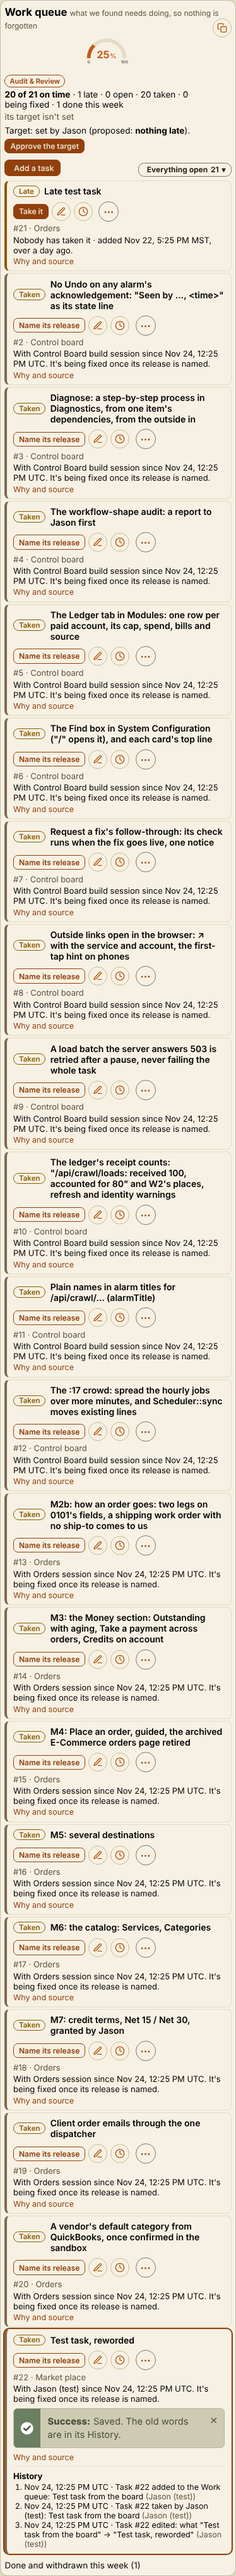
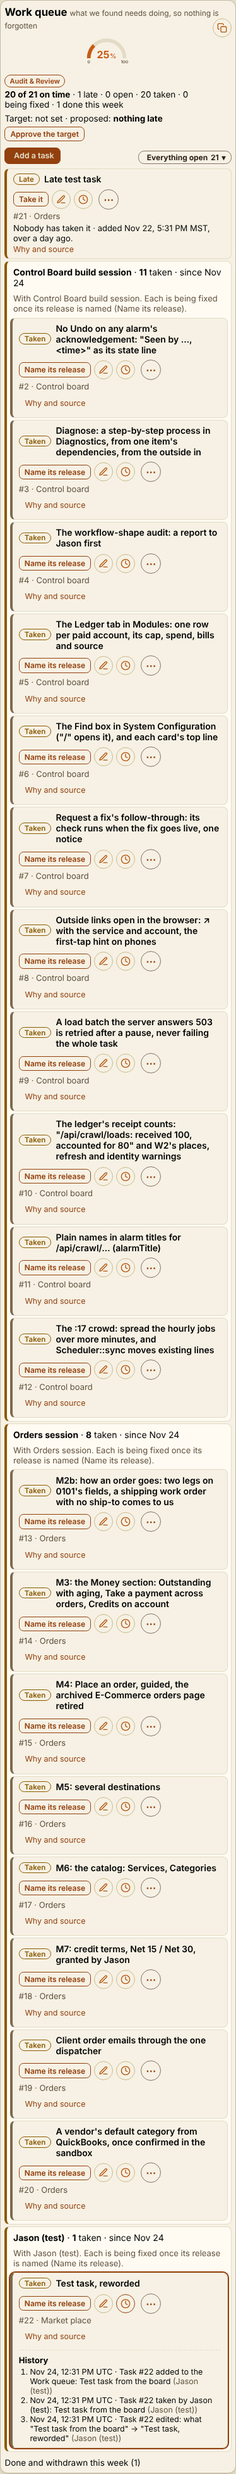
work-queue: the Design reviewer's changes: one filled button, taken rows grouped by who has them, paging kept after an add, the target said once
Claude-Session: https://claude.ai/code/session_01CXLi5gqPa5AQKoZXC7gZxx

Changed region(s): [[0.0, 0.0, 1.0, 1.0], [0.9118, 0.0, 0.9412, 0.0312]]

diff --git a/handoffs/work-queue/build/website/js/admin-control.js b/handoffs/work-queue/build/website/js/admin-control.js
@@ -513,10 +513,12 @@
   // read again from the server, so its gauge, counts and rows say the state now (CLAUDE.md "words follow the state").
   function wqTz() { try { return Intl.DateTimeFormat().resolvedOptions().timeZone || ''; } catch (x) { return ''; } }
   function wqFilter(sec, f) {
-    sec._f = f || 'all'; var n = 0, ul = sec.querySelector('.wq-list:not(.wq-closed .wq-list)'), all = sec.querySelector('.wq-all');
+    sec._f = f || 'all'; var n = 0, ul = sec.querySelector('.wq-main'), all = sec.querySelector('.wq-all');
     if (ul && (sec._f !== 'all' || sec._all)) ul.classList.add('wq-showall'); else if (ul) ul.classList.remove('wq-showall');
     if (all) all.hidden = !!(ul && ul.classList.contains('wq-showall'));
-    sec.querySelectorAll('.wq-list:not(.wq-closed .wq-list) > .wq-it').forEach(function (li) { var on = sec._f === 'all' || li.getAttribute('data-wq-st') === sec._f; li.hidden = !on; if (on) n++; });
+    sec.querySelectorAll('.wq-main .wq-it').forEach(function (li) { var on = sec._f === 'all' || li.getAttribute('data-wq-st') === sec._f; li.hidden = !on; if (on) n++; });
+    sec.querySelectorAll('.wq-main .wq-grp').forEach(function (g) {   // a group row shows while one of its rows does; a filter on Taken opens them
+      var any = g.querySelector('.wq-it:not([hidden])'); g.hidden = !any; if (sec._f === 'taken') g.querySelector('details').open = true; });
     sec.querySelectorAll('[data-wq-f]').forEach(function (b) { b.setAttribute('aria-checked', String(b.getAttribute('data-wq-f') === sec._f)); });
     var lb = sec.querySelector('[data-wq-f="' + sec._f + '"]'), fl = sec.querySelector('[data-wq-fl]'), fn = sec.querySelector('[data-wq-fn]'), none = sec.querySelector('.wq-none');
     if (fl && lb) fl.textContent = lb.firstChild.textContent.trim(); if (fn) fn.textContent = String(n);
@@ -536,11 +538,16 @@
       return n;
     });
   }
+  function wqFirst(sec, id) {   // a task just added: first in the list, marked, the list's paging kept
+    var li = id && sec.querySelector('.wq-main > #wq-' + id), ul = sec.querySelector('.wq-main'); if (!li || !ul) return;
+    li.removeAttribute('data-wq-more'); ul.insertBefore(li, ul.firstChild); li.classList.add('wq-new');
+    var more = ul.children[10]; if (more && !sec._all) more.setAttribute('data-wq-more', '');
+  }
   function wqSend(sec, btn, body, id) {
     body.tz = wqTz(); TvAsk.busy(btn, true);
     return post('/admin/api/config/control', body).then(function (j) {
       TvAsk.busy(btn, false);
-      return wqReload(sec, j.id || id).then(function (n) { var at = n && ((j.id || id) && n.querySelector('#wq-' + (j.id || id) + ' .wq-st')) || n; say(j.message || 'Done.', at); });
+      return wqReload(sec, j.id || id).then(function (n) { if (n && body.action === 'qadd') wqFirst(n, j.id); var at = n && ((j.id || id) && n.querySelector('#wq-' + (j.id || id) + ' .wq-st')) || n; say(j.message || 'Done.', at); });
     }, function (err) { TvAsk.busy(btn, false); say(err.message, btn, true); });
   }
   box.addEventListener('click', function (e) {

diff --git a/handoffs/work-queue/build/app/admin/control-console.php b/handoffs/work-queue/build/app/admin/control-console.php
@@ -1386,17 +1386,17 @@ function tv_cb_wq_places(PDO $pdo, array $tasks): array
     return $p;
 }
 
-function tv_cb_wq_row(array $t, array $places): string
+function tv_cb_wq_row(array $t, array $places, bool $grouped = false): string
 {
     $e = 'tv_w_e'; $id = (int) $t['id']; $st = (string) $t['state'];
     $place = $places[(string) $t['gauge']][1] ?? (string) $t['gauge'];
     $what = (string) ($t['what'] !== '' ? $t['what'] : $t['item']);
-    $when = fn ($d) => '<time datetime="' . $e(gmdate('c', (int) strtotime($d . ' UTC'))) . '" data-tv-time' . ($t['tz'] !== '' ? ' data-tz="' . $e($t['tz']) . '"' : '') . '>' . $e(gmdate('M j, H:i', (int) strtotime($d . ' UTC'))) . ' UTC</time>';
+    $when = fn ($d, $tz = '') => '<time datetime="' . $e(gmdate('c', (int) strtotime($d . ' UTC'))) . '" data-tv-time' . ($tz !== '' ? ' data-tz="' . $e($tz) . '"' : '') . '>' . $e(gmdate('M j, H:i', (int) strtotime($d . ' UTC'))) . ' UTC</time>';
     $pill = ['open' => ['Open', 'n'], 'taken' => ['Taken', 'a'], 'fixing' => ['Being fixed', 'r'], 'late' => ['Late', 'late'], 'done' => ['Done', 'g'], 'withdrawn' => ['Withdrawn', 'w']][$st];
     $owner = (string) $t['owner_now']; $rel = (string) $t['rel_now'];
     $line = [
-        'open' => 'Nobody has it yet · added ' . $when($t['at']) . '. Late if nobody takes it within a day.',
-        'late' => 'Nobody has taken it · added ' . $when($t['at']) . ', over a day ago.',
+        'open' => 'Nobody has it yet · added ' . $when($t['at'], (string) $t['tz']) . '. Late if nobody takes it within a day.',
+        'late' => 'Nobody has taken it · added ' . $when($t['at'], (string) $t['tz']) . ', over a day ago.',
         'taken' => 'With ' . $e($owner) . ($t['owner_at'] ? ' since ' . $when($t['owner_at']) : '') . '. It\'s being fixed once its release is named.',
         'fixing' => 'Being fixed in <b>' . $e($rel) . '</b>' . ($owner !== '' ? ' by ' . $e($owner) : '') . '. Done by itself when that release is live.',
         'done' => $e((string) ($t['done_how'] ?: 'Done: its check passed')) . ', ' . $when((string) $t['cleared_at']) . '.',
@@ -1406,7 +1406,7 @@ function tv_cb_wq_row(array $t, array $places): string
     $ic = fn ($act, $icon, $title, $extra = '') => '<button type="button" class="cbg-ic" data-wq="' . $act . '" title="' . $e($title) . '" aria-label="' . $e($title) . '"' . $extra . '>' . tv_icon($icon, 'cbg-svg') . '</button>';
     $acts = '';
     if (!$closed) {
-        $acts .= in_array($st, ['open', 'late'], true) ? '<button type="button" class="cbg-b cbg-sm" data-wq="take">Take it</button>'
+        $acts .= in_array($st, ['open', 'late'], true) ? '<button type="button" class="cbg-b cbg-sm cbg-o" data-wq="take">Take it</button>'
             : ($st === 'taken' ? '<button type="button" class="cbg-b cbg-sm cbg-o" data-wq="rel">Name its release</button>' : '');
         $acts .= $ic('edit', 'pen', 'Edit task #' . $id . ': ' . $what);
     }
@@ -1421,7 +1421,7 @@ function tv_cb_wq_row(array $t, array $places): string
     return '<li class="wq-it wq-' . $e($st) . '" id="wq-' . $id . '" data-wq-id="' . $id . '" data-wq-st="' . $e($st) . '" data-gauge="' . $e($t['gauge']) . '" data-what="' . $e($what) . '" data-why="' . $e((string) $t['why']) . '" data-source="' . $e($src) . '">'
         . '<div class="wq-h"><span class="wq-pill wq-p-' . $pill[1] . '">' . $pill[0] . '</span><span class="wq-nm">' . $e($what) . '</span><span class="wq-acts">' . $acts . '</span></div>'
         . '<p class="wq-meta">#' . $id . ' · ' . $e($place) . (!$t['task'] ? ' · a fix request from its gauge' : '') . '</p>'
-        . '<p class="wq-st">' . $line . '</p>'
+        . ($grouped ? '' : '<p class="wq-st">' . $line . '</p>')
         . '<details class="wq-ws"><summary>Why and source</summary>'
         . ((string) $t['why'] !== '' ? '<p class="wq-why"><b>Why:</b> ' . $e((string) $t['why']) . '</p>' : '')
         . ($src !== '' ? '<p class="wq-src"><b>Source:</b> ' . $e($src) . '</p>' : '<p class="wq-src"><b>Source:</b> not given (✎ to add it)</p>') . '</details>'
@@ -1443,8 +1443,8 @@ function tv_cb_workqueue(PDO $pdo): string
     $sum = $c['late'] . ' late · ' . $c['open'] . ' open · ' . $c['taken'] . ' taken · ' . $c['fixing'] . ' being fixed · ' . $c['done'] . ' done this week';
     $target = $q['target_approved']
         ? '<p class="wq-tg">Target: <b>' . $e((string) $q['target']) . '</b> (approved by ' . $e((string) $q['target_approved']['who']) . ').</p>'
-        : '<div class="cbg-acts wq-tg"><span>Target: set by Jason (proposed: <b>' . $e(ControlGauges::QUEUE['target_proposed']) . '</b>).</span>'
-          . '<button type="button" class="cbg-b cbg-sm" data-cbg="target" data-g="rt:' . $e(ControlGauges::QUEUE['id']) . '" data-value="' . $e(ControlGauges::QUEUE['target_proposed']) . '" data-title="Work queue">Approve the target</button></div>';
+        : '<div class="cbg-acts wq-tg"><span>Target: not set · proposed: <b>' . $e(ControlGauges::QUEUE['target_proposed']) . '</b></span>'
+          . '<button type="button" class="cbg-b cbg-sm cbg-o" data-cbg="target" data-g="rt:' . $e(ControlGauges::QUEUE['id']) . '" data-value="' . $e(ControlGauges::QUEUE['target_proposed']) . '" data-title="Work queue">Approve the target</button></div>';
     // the filter: one dropdown button (CLAUDE.md "Filters on a list or queue are one dropdown button like Shortcuts")
     $f = [['all', 'Everything open', count($active)], ['late', 'Late', $c['late']], ['open', 'Open', $c['open']], ['taken', 'Taken', $c['taken']], ['fixing', 'Being fixed', $c['fixing']]];
     $fmenu = implode('', array_map(fn ($x) => '<button type="button" role="menuitemradio" aria-checked="' . ($x[0] === 'all' ? 'true' : 'false') . '" data-wq-f="' . $x[0] . '">' . $e($x[1]) . ' <span>' . (int) $x[2] . '</span></button>', $f));
@@ -1460,17 +1460,30 @@ function tv_cb_workqueue(PDO $pdo): string
         . '<label>Source<input name="source" maxlength="255" spellcheck="false" placeholder="a decision, a hand-off, or whose words and when"></label>'
         . '<div class="cbg-acts"><button type="submit" class="cbg-b">Add the task</button><button type="button" class="cbg-b cbg-o" data-wq="cancel">Cancel</button></div></form>';
     // the first 10, then Show all (the gauge panel's paging, handoffs/gauge-panel.md); a filter shows all its rows
-    $active = array_values($active); $rows = '';
-    foreach ($active as $i => $t) { $r = tv_cb_wq_row($t, $places); $rows .= $i >= 10 ? preg_replace('/^<li /', '<li data-wq-more ', $r) : $r; }
-    $list = $active ? '<ul class="wq-list">' . $rows . '</ul>' . (count($active) > 10 ? '<button type="button" class="cbg-b cbg-o cbg-sm wq-all" data-wq="all">Show all ' . count($active) . '</button>' : '')
+    $active = array_values($active); $top = []; $grp = [];
+    foreach ($active as $t) {
+        if ($t['state'] !== 'taken') { $top[] = tv_cb_wq_row($t, $places); continue; }
+        $o = (string) $t['owner_now']; if (!isset($grp[$o])) { $grp[$o] = ['rows' => '', 'n' => 0, 'since' => (string) $t['owner_at']]; $top[] = ['grp' => $o]; }
+        $grp[$o]['rows'] .= tv_cb_wq_row($t, $places, true); $grp[$o]['n']++;
+        if ((string) $t['owner_at'] !== '' && ($grp[$o]['since'] === '' || $t['owner_at'] < $grp[$o]['since'])) $grp[$o]['since'] = (string) $t['owner_at'];
+    }
+    $rows = '';
+    foreach ($top as $i => $r) {
+        if (is_array($r)) { $g = $grp[$r['grp']]; $sn = $g['since'] !== '' ? ' · since <time datetime="' . $e(gmdate('c', (int) strtotime($g['since'] . ' UTC'))) . '">' . $e(gmdate('M j', (int) strtotime($g['since'] . ' UTC'))) . '</time>' : '';
+            $r = '<li class="wq-grp" data-wq-grp="' . $e($r['grp']) . '"><details><summary><span class="wq-gn">' . $e($r['grp']) . '</span> · <b>' . $g['n'] . '</b> taken' . $sn . '</summary>'
+                . '<p class="wq-gl">With ' . $e($r['grp']) . '. Each is being fixed once its release is named (Name its release).</p><ul class="wq-list wq-in">' . $g['rows'] . '</ul></details></li>'; }
+        $rows .= $i >= 10 ? preg_replace('/^<li /', '<li data-wq-more ', $r) : $r;
+    }
+    $nTop = count($top);
+    $list = $active ? '<ul class="wq-list wq-main">' . $rows . '</ul>' . ($nTop > 10 ? '<button type="button" class="cbg-b cbg-o cbg-sm wq-all" data-wq="all">Show ' . ($nTop - 10) . ' more</button>' : '')
         : '<p data-tv-status="ok" data-tv-label="All clear:">Nothing in the queue. Add a task when something needs doing.</p>';
     $list .= '<p class="wq-none" hidden>Nothing here for this filter.</p>';
     $done = $closed ? '<details class="wq-closed"><summary>Done and withdrawn this week (' . count($closed) . ')</summary><ul class="wq-list">' . implode('', array_map(fn ($t) => tv_cb_wq_row($t, $places), $closed)) . '</ul></details>' : '';
-    static $css = false; $style = $css ? '' : '<style>#cb .cb-wq .wq-top{display:flex;gap:.9rem;align-items:center;flex-wrap:wrap;margin:.3rem 0 .6rem}#cb .wq-read{flex:1 1 16rem;min-width:0}#cb .wq-read p{margin:.2rem 0;font-size:13.5px}#cb .wq-why2{color:var(--tv-meta,#6b5d49)}#cb .wq-tg{display:flex;flex-wrap:wrap;gap:.4rem .6rem;align-items:center;font-size:13.5px}#cb .wq-bar{display:flex;flex-wrap:wrap;gap:.5rem;align-items:center;justify-content:space-between;margin:.4rem 0}#cb .wq-bar .cbg-b[hidden]{display:none}#cb .wq-fm{position:relative}#cb .wq-fm .akt-rml{right:0;left:auto;min-width:13rem}#cb .wq-fm .akt-rml button,#cb .wq-it .akt-rml button{display:flex;justify-content:space-between;gap:.6rem;width:100%;border:0;background:none;text-align:left;padding:.42rem .55rem;border-radius:.4rem;font:500 .9rem var(--tv-font-ui,inherit);color:var(--tv-ink,#2A1D14);cursor:pointer}#cb .wq-fm .akt-rml button[aria-checked=true]{font-weight:700;background:var(--tv-card-b,#EFE7D3)}#cb .wq-it .akt-rml button:disabled{opacity:.55;cursor:not-allowed;flex-direction:column}#cb .wq-it .akt-rml small{font-size:11.5px;color:var(--tv-meta,#6b5d49)}#cb .wq-form{position:relative;display:grid;gap:.45rem;background:var(--tv-card-a,#F6F1E4);border:1px solid var(--tv-card-edge,#E3DBC6);border-radius:.5rem;padding:.7rem 2.2rem .7rem .7rem;margin:.4rem 0}#cb .wq-form[hidden],#cb .wq-form label[hidden]{display:none}#cb .wq-form label{display:grid;gap:.2rem;font-size:13px;font-weight:600}#cb .wq-form input,#cb .wq-form select,#cb .wq-form textarea{font:400 14px var(--tv-font-ui,inherit);padding:.4rem .5rem;border:1px solid var(--tv-line-strong,#CBB98D);border-radius:.4rem;background:#FFFBF2;color:var(--tv-ink,#2A1D14);max-width:100%;min-width:0}#cb .wq-x{position:absolute;top:.3rem;right:.4rem}#cb .wq-list{list-style:none;margin:0;padding:0;display:grid;grid-template-columns:minmax(0,1fr);gap:3px}#cb .wq-it{background:var(--tv-card-a,#F6F1E4);border:1px solid var(--tv-card-edge,#E3DBC6);border-left:4px solid var(--tv-taupe,#7A6A52);border-radius:.5rem;padding:.45rem .6rem}#cb .wq-it[hidden],#cb .wq-list:not(.wq-showall) > .wq-it[data-wq-more],#cb .wq-all[hidden]{display:none}#cb .wq-all{margin-top:.4rem}#cb details.wq-ws{margin:.1rem 0 0}#cb details.wq-ws summary{cursor:pointer;font-size:12.5px;color:var(--tv-link,#92400E)}#cb .wq-late{border-left-color:var(--cb-hold)}#cb .wq-fixing{border-left-color:var(--tv-river,#3B5A6B)}#cb .wq-done{border-left-color:#3f6b55}#cb .wq-withdrawn{opacity:.8}#cb .wq-it.cbg-flash{box-shadow:0 0 0 2px var(--tv-btn,#92400E)}#cb .wq-h{display:flex;align-items:center;gap:.45rem;flex-wrap:wrap}#cb .wq-nm{flex:1 1 12rem;min-width:0;font-weight:600;font-size:14px}#cb .wq-acts{display:flex;gap:.3rem;align-items:center;margin-left:auto}#cb .wq-pill{border-radius:999px;padding:.05rem .5rem;font:600 11.5px var(--tv-font-ui,inherit);border:1px solid currentColor;white-space:nowrap}#cb .wq-p-late{color:var(--cb-hold)}#cb .wq-p-n{color:var(--tv-taupe,#7A6A52)}#cb .wq-p-a{color:#8a5a00}#cb .wq-p-r{color:var(--tv-river,#3B5A6B)}#cb .wq-p-g{color:#3f6b55}#cb .wq-p-w{color:var(--tv-meta,#6b5d49)}#cb .wq-it p{margin:.15rem 0;font-size:13px}#cb .wq-meta{color:var(--tv-meta,#6b5d49);font-size:12.5px}#cb .wq-why,#cb .wq-src{color:var(--tv-ink,#2A1D14)}#cb .wq-src{overflow-wrap:anywhere}#cb .wq-hist{border-top:1px dashed var(--tv-card-edge,#E3DBC6);margin-top:.35rem;padding-top:.3rem;font-size:12.5px}#cb .wq-hist ol{margin:0;padding-left:1.1rem}#cb .wq-hist span{color:var(--tv-meta,#6b5d49)}#cb .wq-hh{font-weight:700}#cb details.wq-closed{margin-top:.6rem}#cb details.wq-closed summary{cursor:pointer;font-size:13.5px}@media (max-width:767px){#cb .wq-acts{margin-left:0;flex-basis:100%;justify-content:flex-start}#cb .wq-fm .akt-rml{right:auto;left:0}}</style>'; $css = true;
+    static $css = false; $style = $css ? '' : '<style>#cb .cb-wq .wq-top{display:flex;gap:.9rem;align-items:center;flex-wrap:wrap;margin:.3rem 0 .6rem}#cb .wq-read{flex:1 1 16rem;min-width:0}#cb .wq-read p{margin:.2rem 0;font-size:13.5px}#cb .wq-why2{color:var(--tv-meta,#6b5d49)}#cb .wq-tg{display:flex;flex-wrap:wrap;gap:.4rem .6rem;align-items:center;font-size:13.5px}#cb .wq-bar{display:flex;flex-wrap:wrap;gap:.5rem;align-items:center;justify-content:space-between;margin:.4rem 0}#cb .wq-bar .cbg-b[hidden]{display:none}#cb .wq-fm{position:relative}#cb .wq-fm .akt-rml{right:0;left:auto;min-width:13rem}#cb .wq-fm .akt-rml button,#cb .wq-it .akt-rml button{display:flex;justify-content:space-between;gap:.6rem;width:100%;border:0;background:none;text-align:left;padding:.42rem .55rem;border-radius:.4rem;font:500 .9rem var(--tv-font-ui,inherit);color:var(--tv-ink,#2A1D14);cursor:pointer}#cb .wq-fm .akt-rml button[aria-checked=true]{font-weight:700;background:var(--tv-card-b,#EFE7D3)}#cb .wq-it .akt-rml button:disabled{opacity:.55;cursor:not-allowed;flex-direction:column}#cb .wq-it .akt-rml small{font-size:11.5px;color:var(--tv-meta,#6b5d49)}#cb .wq-form{position:relative;display:grid;gap:.45rem;background:var(--tv-card-a,#F6F1E4);border:1px solid var(--tv-card-edge,#E3DBC6);border-radius:.5rem;padding:.7rem 2.2rem .7rem .7rem;margin:.4rem 0}#cb .wq-form[hidden],#cb .wq-form label[hidden]{display:none}#cb .wq-form label{display:grid;gap:.2rem;font-size:13px;font-weight:600}#cb .wq-form input,#cb .wq-form select,#cb .wq-form textarea{font:400 14px var(--tv-font-ui,inherit);padding:.4rem .5rem;border:1px solid var(--tv-line-strong,#CBB98D);border-radius:.4rem;background:#FFFBF2;color:var(--tv-ink,#2A1D14);max-width:100%;min-width:0}#cb .wq-x{position:absolute;top:.3rem;right:.4rem}#cb .wq-list{list-style:none;margin:0;padding:0;display:grid;grid-template-columns:minmax(0,1fr);gap:3px}#cb .wq-it{background:var(--tv-card-a,#F6F1E4);border:1px solid var(--tv-card-edge,#E3DBC6);border-left:4px solid var(--tv-taupe,#7A6A52);border-radius:.5rem;padding:.45rem .6rem}#cb .wq-it[hidden],#cb .wq-main:not(.wq-showall) > [data-wq-more],#cb .wq-grp[hidden],#cb .wq-all[hidden]{display:none}#cb .wq-all{margin-top:.4rem}#cb .wq-grp{border:1px solid var(--tv-card-edge,#E3DBC6);border-left:4px solid #8a5a00;border-radius:.5rem;background:#FFFBF2}#cb .wq-grp summary{cursor:pointer;padding:.5rem .6rem;font-size:14px}#cb .wq-gn{font-weight:700}#cb .wq-gl{margin:0 .6rem .4rem;font-size:13px;color:var(--tv-meta,#6b5d49)}#cb .wq-in{padding:0 .3rem .3rem}#cb .wq-it.wq-new{box-shadow:0 0 0 2px var(--tv-btn,#92400E)}#cb details.wq-ws{margin:.1rem 0 0}#cb details.wq-ws summary{cursor:pointer;font-size:12.5px;color:var(--tv-link,#92400E)}#cb .wq-late{border-left-color:var(--cb-hold)}#cb .wq-fixing{border-left-color:var(--tv-river,#3B5A6B)}#cb .wq-done{border-left-color:#3f6b55}#cb .wq-withdrawn{opacity:.8}#cb .wq-it.cbg-flash{box-shadow:0 0 0 2px var(--tv-btn,#92400E)}#cb .wq-h{display:flex;align-items:center;gap:.45rem;flex-wrap:wrap}#cb .wq-nm{flex:1 1 12rem;min-width:0;font-weight:600;font-size:14px}#cb .wq-acts{display:flex;gap:.3rem;align-items:center;margin-left:auto}#cb .wq-pill{border-radius:999px;padding:.05rem .5rem;font:600 11.5px var(--tv-font-ui,inherit);border:1px solid currentColor;white-space:nowrap}#cb .wq-p-late{color:var(--cb-hold)}#cb .wq-p-n{color:var(--tv-taupe,#7A6A52)}#cb .wq-p-a{color:#8a5a00}#cb .wq-p-r{color:var(--tv-river,#3B5A6B)}#cb .wq-p-g{color:#3f6b55}#cb .wq-p-w{color:var(--tv-meta,#6b5d49)}#cb .wq-it p{margin:.15rem 0;font-size:13px}#cb .wq-meta{color:var(--tv-meta,#6b5d49);font-size:12.5px}#cb .wq-why,#cb .wq-src{color:var(--tv-ink,#2A1D14)}#cb .wq-src{overflow-wrap:anywhere}#cb .wq-hist{border-top:1px dashed var(--tv-card-edge,#E3DBC6);margin-top:.35rem;padding-top:.3rem;font-size:12.5px}#cb .wq-hist ol{margin:0;padding-left:1.1rem}#cb .wq-hist span{color:var(--tv-meta,#6b5d49)}#cb .wq-hh{font-weight:700}#cb details.wq-closed{margin-top:.6rem}#cb details.wq-closed summary{cursor:pointer;font-size:13.5px}@media (max-width:767px){#cb .wq-acts{margin-left:0;flex-basis:100%;justify-content:flex-start}#cb .wq-fm .akt-rml{right:auto;left:0}}</style>'; $css = true;
     return $style . '<section class="ak-card tv-bleed cb-box cb-wq" id="cb-wq" data-copy="Work queue">'
         . '<h3 class="cb-title">Work queue <small>what we found needs doing, so nothing is forgotten</small></h3>'
         . '<div class="wq-top">' . tv_score_gauge($score, $label, $stage) . '<div class="wq-read">' . tv_score_stage_pill($stage)
-        . '<p class="wq-r1"><b>' . $e($q['reading_text']) . '</b> · ' . $e($sum) . '</p><p class="wq-why2">' . $e($q['why']) . '</p>' . $target . '</div></div>'
+        . '<p class="wq-r1"><b>' . $e($q['reading_text']) . '</b> · ' . $e($sum) . '</p>' . ($q['target_approved'] ? '<p class="wq-why2">' . $e(ucfirst($q['stage']) . ': ' . $q['why']) . '.</p>' : '') . $target . '</div></div>'
         . '<div class="wq-bar"><button type="button" class="cbg-b" data-wq="add">' . tv_icon('plus', 'cbg-svg') . ' Add a task</button>'
         . '<span class="akt-rm wq-fm"><button type="button" class="ak-b cb-xs wq-fb" data-wq-fb aria-haspopup="menu" aria-expanded="false">' . tv_icon('filter', 'cbg-svg') . ' <span data-wq-fl>Everything open</span> <span data-wq-fn>' . count($active) . '</span> ▾</button><span class="akt-rml" role="menu" hidden>' . $fmenu . '</span></span></div>'
         . $form . $list . $done . '</section>';

diff --git a/handoffs/work-queue.md b/handoffs/work-queue.md
@@ -51,6 +51,14 @@ Repo: `tools/page-audit/gauge-requests.mjs` marks late as the queue does (a day 
    session with "paused by him the same day" in its why (Jason, 2026-11-24, #1354: "Pause for now. add to work queue."); the
    board's phone header is **Being fixed in board-phone-header.zip**, so it's done by itself once that release is live.
 
+9. **The Design reviewer's changes (2026-11-24), made:** one filled button in the view (Add a task; each row's next step and
+   Approve the target outlined: brand.md's button standard); taken rows grouped by who has them, one row each that opens to its
+   members, the sentence said once on the group (table-standard §8; a group counts as one row for paging); the first 10 then
+   "Show N more" kept after an add, the new task first and marked; the target said once ("Target: not set · proposed: nothing
+   late"). **Not changed, with its source:** the late task's time stays in the zone it was added from (MST), the others
+   (recorded without one) in the viewer's: CLAUDE.md "Times where they happened" ("Show it in that zone, always labeled …
+   with no zone stored, in the viewer's"). Group dates are the day only.
+
 ## Kept, moved, dropped
 
 - Request a fix on a gauge's panel: **kept** as it is; its open requests also show in the queue ("a fix request from its gauge").
@@ -66,6 +74,6 @@ Repo: `tools/page-audit/gauge-requests.mjs` marks late as the queue does (a day 
 
 ## Tests (bench: MariaDB, the mirror with board-phone-header and this build over it)
 
-- `tools/control-board-tests/work-queue.cjs` with `work-queue-seed.php` (68, at 1280 and 390; the migration run twice; the same task added twice stands once) and
+- `tools/control-board-tests/work-queue.cjs` with `work-queue-seed.php` (80, at 1280 and 390; the migration run twice; the same task added twice stands once; groups, paging after an add, one filled button) and
   `board-panels-router.php`'s new actions; `gauge-requests.mjs` (7: late as the queue says it).
 - `run-all.sh`: only the 7 known live failures. `board-views.cjs` takes the Work queue's header as a gauge's place (its pill beside it); `rendered-all.sh`: work-queue 68, gauge-panel 76, board-views 90, board-panels 43, board-opening 48, board-tabs 16, board-phone-header 42, no failures.
